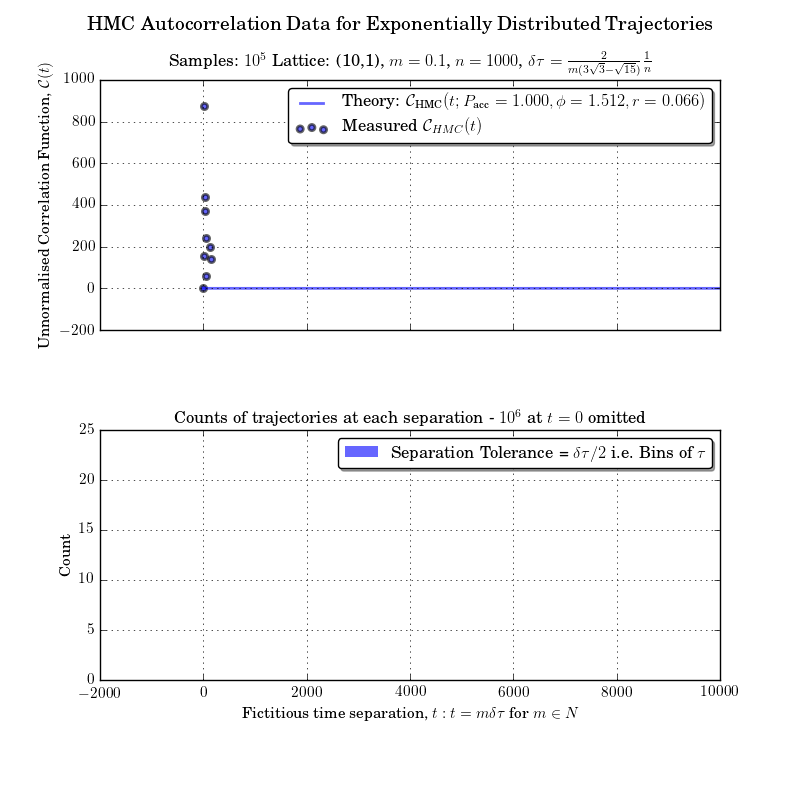
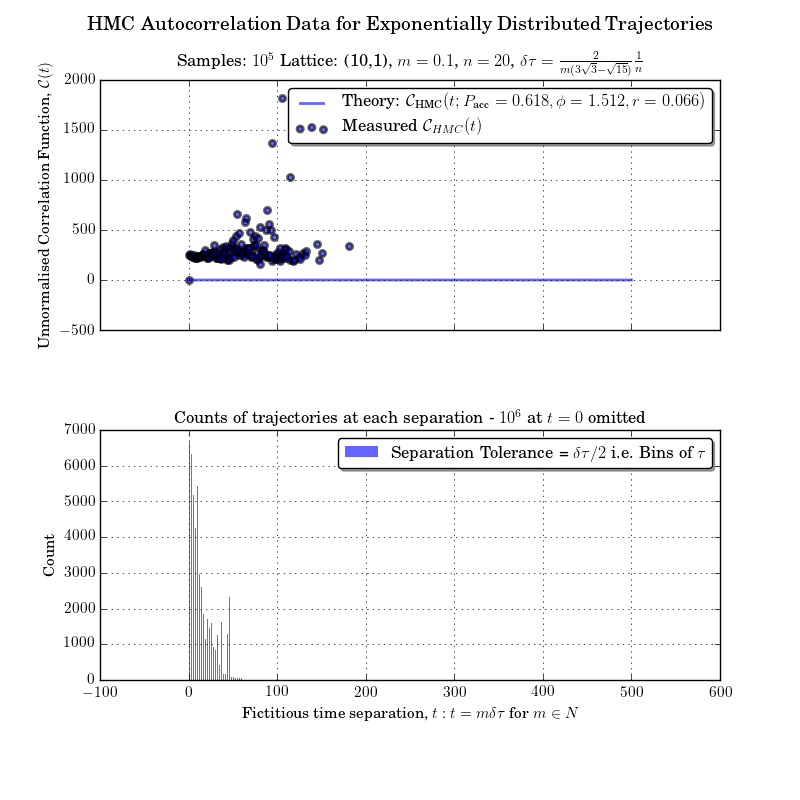
fixed demo/

diff --git a/results/common/uWerrWind.py b/results/common/uWerrWind.py
@@ -156,7 +156,7 @@ def plot(lines_d, x_lst, ws, subtitle, mcore, angle_labels, op_name, save):
             print 'Too few MCMC simulations to plot autocorrelations for: {}'.format(a)
         
         if t is not None:
-            axis.plot(x, t, linewidth=1.2, alpha=0.9, color=th_c, linestyle='-', label='Theoretical')
+            axis.plot(x, t, linewidth=1.2, alpha=0.9, color=th_c, linestyle='--', label='Theoretical')
         
     axis.legend(loc='best', shadow=True, fontsize = pp.axfont)
     
@@ -181,14 +181,14 @@ def plot(lines_d, x_lst, ws, subtitle, mcore, angle_labels, op_name, save):
     for a in ax:                            # 5% extra room at top & add legend
         yi,yf = a.get_ylim()
         a.set_ylim(ymax= yf+.05*(yf-yi), ymin= yi-.05*(yf-yi))
-    
+    ax[-1].set_ylim(ymax=2)
     pp.save_or_show(save, PLOT_LOC)
     pass
 #
 def main(x0, pot, file_name, n_samples, n_burn_in, mixing_angle, angle_labels,
         opFn, op_name, rand_steps = False, step_size = .5, n_steps = 1,
         spacing = 1., itauFunc = None, separations = range(5000),
-        acTheory=None,
+        acTheory=None, max_sep=None,
         save = False):
     """Takes a function: opFn. Runs HMC-MCMC. Runs opFn on HMC samples.
         Calculates Autocorrelation + Errors on opFn.
@@ -212,6 +212,7 @@ def main(x0, pot, file_name, n_samples, n_burn_in, mixing_angle, angle_labels,
         save :: bool :: True saves the plot, False prints to the screen
         acTheory :: func :: acTheory(t, pa, theta) takes in acceptance prob., time, angle 
         separations :: range / nparray :: the number of separations for A/C
+        max_sep :: float :: the maximum separation tom consider for autocorrelations
     """
     rng = np.random.RandomState()
     multi_angle = len(mixing_angle) > 1         # see if multiprocessing is needed
@@ -230,7 +231,7 @@ def main(x0, pot, file_name, n_samples, n_burn_in, mixing_angle, angle_labels,
         c = acorr.Autocorrelations_1d(model)                    # set up autocorrs
         c.runModel(n_samples=n_samples, n_burn_in=n_burn_in,    # run MCMC
             mixing_angle = mixing_angle, verbose=True)
-        acs = c.getAcorr(separations, opFn, norm = False, prll_map=None)
+        acs = c.getAcorr(separations, opFn, norm = False, prll_map=prll_map)
         cfn = c.op_samples
         
         # get parameters generated
@@ -262,7 +263,7 @@ def main(x0, pot, file_name, n_samples, n_burn_in, mixing_angle, angle_labels,
             c = acorr.Autocorrelations_1d(model)                    # set up autocorrs
             c.runModel(n_samples=n_samples, n_burn_in=n_burn_in,    # run MCMC
                 mixing_angle = a, verbose=True, verb_pos=i)
-            acs = c.getAcorr(range(100), opFn, norm = False, prll_map=None, ac=acs)
+            acs = c.getAcorr(separations, opFn, norm = False, prll_map=None, ac=acs, max_itau=max_itau)
             cfn = c.op_samples
             # get parameters generated
             p = c.model.p_acc          # get acceptance rates at each M-H step
@@ -340,7 +341,10 @@ def preparePlot(op_samples, ans, n, itau_theory=None, acn_theory=None, mcore=Fal
         itaus_diff = np.zeros(acn.shape)
         acn_diff = np.zeros(acn.shape)
         itau_label = r"$\tau_{\text{int}}(w_{\text{best}}:\ \text{n/a}) = \text{n/a}$"
-        
+    
+    # a quick hack
+    l = min(acn.size, itaus.size, l)
+    
     if acn_theory is not None: acn_theory = acn_theory[:l]
     g_int = np.cumsum(np.nan_to_num(acn[1:l]/acn[0]))                    # recreate the g_int function
     g = np.asarray([errors.gW(t, v, 1.5, n) for t,v in enumerate(g_int,1)]) # recreate the gW function

diff --git a/demo/demo_leap_frog.py b/demo/demo_leap_frog.py
@@ -48,7 +48,7 @@ class Demo_Hamiltonian_Dynamics(Pretty_Plotter):
         self.potential = potential
         self.kE, self.uE = self.potential.kE, self.potential.uE
         
-        self.p0, self.x0 = np.matrix(p0), np.matrix(x0)
+        self.p0, self.x0 = np.array(p0), np.array(x0)
         self.dynamics = dynamics
         
         self.p,self.x = self.p0, self.x0 # initial conditions
@@ -107,8 +107,8 @@ class Demo_Hamiltonian_Dynamics(Pretty_Plotter):
         
         
         """
-        
-        kE,uE,dkE,duE = self.potential.all
+        p = self.potential
+        kE,uE,duE = p.kE, p.uE, p.duE
         
         n = 1000 # Resolution of the spring (< 500 is shit)
         fig = plt.figure(figsize=(8, 8)) # make plot
@@ -133,8 +133,10 @@ class Demo_Hamiltonian_Dynamics(Pretty_Plotter):
         ax[0].set_ylim([-1.,1.])
         
         # Intial parameters
-        pos = x_ar[0,:,:].reshape((1,)) # expect 1D p and x
-        mom = p_ar[0,:,:].reshape((1,)) # expect 1D p and x
+        p_ar = np.array(p_ar)
+        x_ar = np.array(x_ar)
+        pos = x_ar[0].reshape((1,)) # expect 1D p and x
+        mom = p_ar[0].reshape((1,)) # expect 1D p and x
         x = np.linspace(-6., pos, n, endpoint=True) # x range to clip wire
         wire = np.sin(6. * np.linspace(0, 2.*np.pi, n)) # wire is clipped at x[-1]
         # Lines: spring (sin curve); weight (rectangle)
@@ -223,7 +225,7 @@ class Demo_Hamiltonian_Dynamics(Pretty_Plotter):
                     tmp_dir+'output*.png',
                     save_dir+'{0}.gif'.format(save.split('.')[0])])
                 
-                subprocess.call(['rm', '-r', './temp/']) # remove temp folder
+                # subprocess.call(['rm', '-r', './temp/']) # remove temp folder
             else:
                 anim.save(save_dir+save, fps=30, 
                     extra_args=['-vcodec', 'h264', '-pix_fmt', 'yuv420p'])
@@ -262,7 +264,6 @@ def fullDemo():
     
     logger.debug('Running integration')
     test.run() # run dynamics
-    test.dynamics.pathToNumpy()
     
     logger.info('Demonstrating Energy Drift')
     test.energy_drift( # show energy drift

diff --git a/results/acorr_reload.py b/results/acorr_reload.py
@@ -1,7 +1,7 @@
 #!/usr/bin/env python
 import numpy as np
 from results.data.store import load
-from theory.autocorrelations import M2_Exp as Theory
+# from theory.autocorrelations import M2_Exp as Theory
 from common.acorr import plot
 from common.utils import saveOrDisplay
 
@@ -12,24 +12,38 @@ dest = 'results/data/other_objs/{}_allPlot.pkl'.format(file_name)
 a = load(dest)
 pa =  load('results/data/other_objs/{}_probs.pkl'.format(file_name))
 
-m         = 0.1
-n_steps   = 1000
-step_size = 1./((3.*np.sqrt(3)-np.sqrt(15))*m/2.)/float(n_steps)
-tau       = step_size*n_steps
+# m         = 0.1
+# n_steps   = 1000
+# step_size = 1./((3.*np.sqrt(3)-np.sqrt(15))*m/2.)/float(n_steps)
+# tau       = step_size*n_steps
+#
+# n, dim  = 10, 1
+# x0 = np.random.random((n,)*dim)
+# spacing = 1.0
+#
+# n_samples, n_burn_in = 1000000, 50
+# c_len   = 100000
+#
+# th = Theory(tau=tau, m=m)
+# vFn = lambda x: th.eval(t=x, pa=pa, theta=np.pi/2)/th.eval(t=0, pa=pa, theta=np.pi/2.)
+#
+# l = a['lines'].keys()[0]
+# x, f0 = a['lines'][l]
+# f1 = vFn(x)
+# a['lines'][l] = (x, f1)
 
-n, dim  = 10, 1
-x0 = np.random.random((n,)*dim)
-spacing = 1.0
+n = 450
+k = a['acns'].keys()[0]
+x,y, e = a['acns'][k]
+a['acns'][k] = x[:n], y[:n], e[:n]
 
-n_samples, n_burn_in = 1000000, 50
-c_len   = 100000
-
-th = Theory(tau=tau, m=m)
-vFn = lambda x: th.eval(t=x, pa=pa, theta=np.pi/2)/th.eval(t=0, pa=pa, theta=np.pi/2.)
-
-l = a['lines'].keys()[0]
-x, f0 = a['lines'][l]
-f1 = vFn(x)
-a['lines'][l] = (x, f1)
+# from scipy.optimize import curve_fit
+# fn = lambda x, a, b, c: a*np.cos(b*x)**2+c
+# fit,cov = curve_fit(fn, x[:100], y[:100])
+#
+# l = a['lines'].keys()[0]
+# x, f0 = a['lines'][l]
+# f1 = fn(x, *fit)
+# a['lines'][l] = (x, f1)
 
 plot(save = saveOrDisplay(save, file_name), **a)

diff --git a/correlations/acorr.py b/correlations/acorr.py
@@ -229,7 +229,7 @@ class Autocorrelations_1d(Init, Base):
         self._setUp()
         pass
     
-    def getAcorr(self, separations, op_func, norm = False, prll_map=None, proc_max=1000):
+    def getAcorr(self, separations, op_func, norm = False, prll_map=None, proc_max=1000, max_sep=None):
         """Returns the autocorrelations for a specific sampled operator 
         
         Once the model is run then the samples can be passed through the autocorrelation
@@ -243,6 +243,7 @@ class Autocorrelations_1d(Init, Base):
             norm     :: bool :: specifiy whether to normalise the autocorrelations
             prll_map :: fn :: the prll_map from results.common.utils for multicore usage
             proc_max :: int :: max number of processes to spawn
+            max_sep :: float :: define the max separation
         
         Notes: op_func must be optimised to only take ALL HMC trajectories as an input
         """
@@ -271,7 +272,8 @@ class Autocorrelations_1d(Init, Base):
         
         if self.model.rand_steps:
             cumut       = np.cumsum(self.trajs)
-            max_sep     = self.model.step_size*len(separations)/2.
+            if max_sep is None:
+                max_sep     = self.model.step_size*len(separations)/2.
             n_seps      = max_sep/self.model.step_size + 1
             separations = np.linspace(0, max_sep, n_seps)
             tolerance   = self.model.step_size/2.-self.model.step_size*0.1

diff --git a/results/uWerrWind_mag2_hmc.py b/results/uWerrWind_mag2_hmc.py
@@ -10,14 +10,14 @@ from theory.clibs.autocorrelations.exponential import hmc
 file_name = __file__
 pot = KG()
 
-m         = 0.1
-n_steps   = 1000
+m         = 1.0
+n_steps   = 100
 step_size = 1./((3.*np.sqrt(3)-np.sqrt(15))*m/2.)/float(n_steps)
 tau       = step_size*n_steps
 
-n, dim = 10, 1
+n, dim = 100, 1
 x0 = np.random.random((n,)*dim)
-spacing = 1.
+spacing = 0.05
 
 n_samples, n_burn_in = 1000000, 25
 
@@ -26,17 +26,17 @@ angle_label = [r'$\theta = \pi/2$']
 opFn = magnetisation_sq
 op_name = r'$\hat{O} = \phi_0^2 :\phi_0 = \mathcal{F}^{-1}\tilde{\phi}_0 = '\
     + r' \sum_{x\in\mathbb{Z}^d_\text{L}}\tilde{\phi}_0$'
-th = M2_Exp(tau=n_steps*step_size, m=1)
+th = M2_Exp(tau=n_steps*step_size, m=m)
 t = th.integrated
 
 acFunc = lambda t, pa, theta: hmc(pa, tau*m, 1./tau, t)/hmc(pa, tau*m, 1./tau, 0)
-separations=range(100000)
+separations=range(2000)
 
 if '__main__' == __name__:
     uWerrWind.main(x0, pot, file_name, 
         n_samples = n_samples, n_burn_in = n_burn_in, spacing = spacing,
         rand_steps = True, step_size = step_size, n_steps = n_steps, 
         mixing_angle = mixing_angle, angle_labels = angle_label, 
-        opFn = opFn, op_name=op_name, itauFunc=t, separations=separations,
-        acTheory=acFunc,
+        opFn = opFn, op_name=op_name, itauFunc=None, separations=separations,
+        acTheory=acFunc, max_sep=25.,
         save = True)

diff --git a/results/uWerrWind_mag2_hmc_reload.py b/results/uWerrWind_mag2_hmc_reload.py
@@ -1,0 +1,31 @@
+#!/usr/bin/env python
+import numpy as np
+from results.data.store import load
+from correlations.acorr import acorr as getAcorr
+from correlations.errors import uWerr, gW
+from common.uWerrWind import plot, preparePlot
+from common.utils import saveOrDisplay
+
+save = False
+file_name = 'uWerrWind_mag2_hmc.py'
+
+dest = 'results/data/other_objs/uWerrWind_mag2_hmc_allPlot.pkl'
+a = load(dest)
+
+
+m         = 1.0
+n_steps   = 10
+step_size = 1./((3.*np.sqrt(3)-np.sqrt(15))*m/2.)/float(n_steps)
+tau       = step_size*n_steps
+
+n, dim = 100, 1
+x0 = np.random.random((n,)*dim)
+spacing = 0.05
+
+op_name = r'$\hat{O} = \phi_0^2 :\phi_0 = \mathcal{F}^{-1}\tilde{\phi}_0 = '\
+    + r' \sum_{x\in\mathbb{Z}^d_\text{L}}\tilde{\phi}_0$'
+subtitle = r"Potential: {}; Lattice Shape: ".format('Klein Gordon') \
+    + r"${}$; $a={:.1f}; \delta\tau={:.1f}; n={}$".format(
+        x0.shape, spacing, step_size, n_steps)
+
+plot(save = saveOrDisplay(save, file_name), **a)

diff --git a/results/acorrIssues_mag2_hmc_lowM.py b/results/acorrIssues_mag2_hmc_lowM.py
@@ -14,8 +14,8 @@ except:
     print 'failed to import hmc c++ thory'
     theory = False
 
-m         = 0.1
-n_steps   = 1000
+m         = 1.
+n_steps   = 20
 step_size = 1./((3.*np.sqrt(3)-np.sqrt(15))*m/2.)/float(n_steps)
 tau       = step_size*n_steps
 
@@ -24,12 +24,12 @@ th = Theory(tau=step_size*n_steps, m=m)
 file_name = __file__
 pot = KG(m=m)
 
-n, dim  = 10, 1
+n, dim  = 1000, 1
 x0 = np.random.random((n,)*dim)
-spacing = 1.0
+spacing = 0.2
 
-n_samples, n_burn_in = 1000000, 50
-c_len   = 1000
+n_samples, n_burn_in = 10000, 50
+c_len   = 100
 
 mixing_angles = [.5*np.pi]
 angle_labels = [r'\frac{\pi}{2}']

diff --git a/results/common/acorr.py b/results/common/acorr.py
@@ -147,7 +147,7 @@ def main(x0, pot, file_name,
         c.runModel(n_samples=n_samples, n_burn_in=n_burn_in, mixing_angle = a, verbose=True, verb_pos=i)
         store.store(c.model.samples, file_name, '_samples')
         store.store(c.model.traj, file_name, '_trajs')
-        acs = c.getAcorr(separations, opFn, norm = False, prll_map=send_prll)   # non norm for uWerr
+        acs = c.getAcorr(separations, opFn, norm = False, prll_map=send_prll, max_sep=500.)   # non norm for uWerr
         
         # get parameters generated
         traj        = np.cumsum(c.trajs)

diff --git a/results/use_stored_sample.py b/results/use_stored_sample.py
@@ -27,10 +27,10 @@ av_op = op.mean()
 
 n, dim    = 10, 1
 spacing   = 1.
-n_samples, n_burn_in = 100000, 50
-c_len     = 10000
+n_samples, n_burn_in = 1000000, 50
+c_len     = 1000
 m         = 0.1
-n_steps   = 1000
+n_steps   = 20
 step_size = 1./((3.*np.sqrt(3)-np.sqrt(15))*m/2.)/float(n_steps)
 tau       = step_size*n_steps
 r         = 1/tau

diff --git a/hmc/hmc.py b/hmc/hmc.py
@@ -20,6 +20,7 @@ class Hybrid_Monte_Carlo(Init):
         rng        :: np.random.RandomState :: random number state
     
     Expectations
+        None
     """
     def __init__(self, x0, dynamics, potential, rng, **kwargs):
         super(Hybrid_Monte_Carlo, self).__init__()
